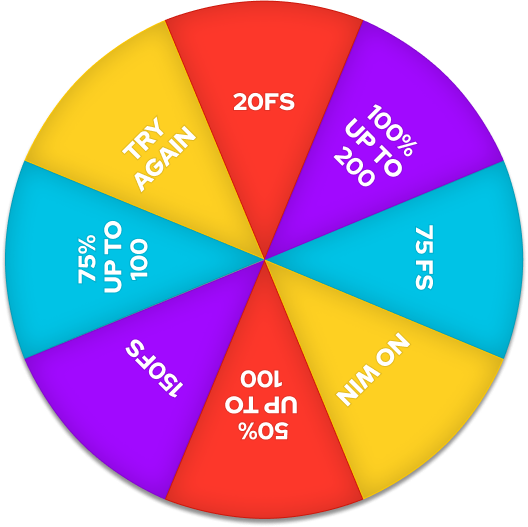
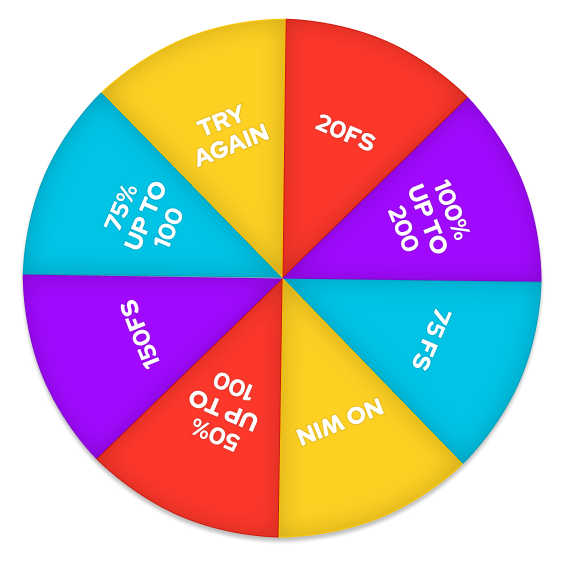
add fix img

diff --git a/stylesheets/style.css b/stylesheets/style.css
@@ -1,1 +1,1 @@
-.section{width:100%;height:100%}.abacasino{height:937px;overflow:hidden;position:relative}.abacasino__background{width:100%;height:100%;object-fit:cover}.abacasino__background-grass{width:100%;height:100%;object-fit:cover;position:absolute;left:0px;z-index:50}.abacasino__title{position:absolute;top:40px;left:calc( 50% - 123px )}.abacasino__singer{position:absolute;bottom:40px;left:calc(50% - 40%)}.abacasino__man{position:absolute;bottom:-10px;right:calc(50% - 43%)}.abacasino__chipsMany{position:absolute;top:0px;right:100px}.abacasino__chips{position:absolute;top:30%;left:26%}.abacasino__drum{width:50px;height:50px;position:absolute;top:calc( 50% - 291px );left:calc( 50% - 269px );z-index:50}.abacasino__circle{position:absolute;top:2px;left:2px;z-index:40}.abacasino__stars{position:absolute;top:8px;left:2px;z-index:50}.abacasino__button{background-color:transparent;border:none;outline:none;position:absolute;top:162px;left:180px;z-index:100;cursor:pointer;animation:scale 1s linear infinite}.abacasino__colors{position:absolute;top:10px;left:10px;transition:5s}.abacasino__arrow{position:absolute;top:-18px;left:230px;z-index:60}.display{display:none}@keyframes scale{1%{transform:scale(1)}50%{transform:scale(1.1)}100%{transform:scale(1)}}@media (max-width: 1440px){.section{max-width:1440px;height:100%}.section .abacasino{min-height:780px}.section .abacasino__title{top:24px;left:calc( 50% - 123px )}.section .abacasino__chipsMany{right:113px}.section .abacasino__drum{top:calc( 50% - 291px );left:calc( 50% - 269px )}.section .abacasino__singer{bottom:56px;left:calc(50% - 45%)}.section .abacasino__man{bottom:0px;right:calc(50% - 48.5%)}.section .abacasino__chips{top:6%;left:23%}}@media (max-width: 1440px) and (max-height: 780px){.section .abacasino{height:780px}}@media (max-width: 1280px){.section{max-width:1440px;height:100%}.section .abacasino__man{right:calc(50% - 53.5%)}.section .abacasino__singer{left:calc(50% - 49%)}.section .abacasino__chips{left:20%}.section .abacasino__chipsMany{right:50px}}
+.section{width:100%;height:100%}.abacasino{height:937px;overflow:hidden;position:relative}.abacasino__background{width:100%;height:100%;object-fit:cover}.abacasino__background-grass{width:100%;height:100%;object-fit:cover;position:absolute;left:0px;z-index:50}.abacasino__title{position:absolute;top:40px;left:calc( 50% - 123px )}.abacasino__singer{position:absolute;bottom:40px;left:calc(50% - 40%)}.abacasino__man{position:absolute;bottom:-10px;right:calc(50% - 43%)}.abacasino__chipsMany{position:absolute;top:0px;right:100px}.abacasino__chips{position:absolute;top:30%;left:26%}.abacasino__drum{width:50px;height:50px;position:absolute;top:calc( 50% - 291px );left:calc( 50% - 269px );z-index:50}.abacasino__circle{position:absolute;top:2px;left:2px;z-index:40}.abacasino__stars{position:absolute;top:8px;left:2px;z-index:50}.abacasino__button{background-color:transparent;border:none;outline:none;position:absolute;top:162px;left:180px;z-index:100;cursor:pointer;animation:scale 1s linear infinite}.abacasino__colors{position:absolute;top:-4px;left:-15px;transition:5s}.abacasino__arrow{position:absolute;top:-18px;left:230px;z-index:60}.display{display:none}@keyframes scale{1%{transform:scale(1)}50%{transform:scale(1.1)}100%{transform:scale(1)}}@media (max-width: 1440px){.section{max-width:1440px;height:100%}.section .abacasino{min-height:780px}.section .abacasino__title{top:24px;left:calc( 50% - 123px )}.section .abacasino__chipsMany{right:113px}.section .abacasino__drum{top:calc( 50% - 291px );left:calc( 50% - 269px )}.section .abacasino__singer{bottom:56px;left:calc(50% - 45%)}.section .abacasino__man{bottom:0px;right:calc(50% - 48.5%)}.section .abacasino__chips{top:6%;left:23%}}@media (max-width: 1440px) and (max-height: 780px){.section .abacasino{height:780px}}@media (max-width: 1280px){.section{max-width:1440px;height:100%}.section .abacasino__man{right:calc(50% - 53.5%)}.section .abacasino__singer{left:calc(50% - 49%)}.section .abacasino__chips{left:20%}.section .abacasino__chipsMany{right:50px}}

diff --git a/sass/style.sass b/sass/style.sass
@@ -67,8 +67,8 @@ $randomNumber: random(51deg)
         animation: scale 1s linear infinite   
     &__colors
         position: absolute
-        top: 10px 
-        left: 10px
+        top: -4px 
+        left: -15px
         transition: 5s 
     // .abacasino__button:focus ~ .abacasino__colors
         // transition: transform 2s ease-out   
